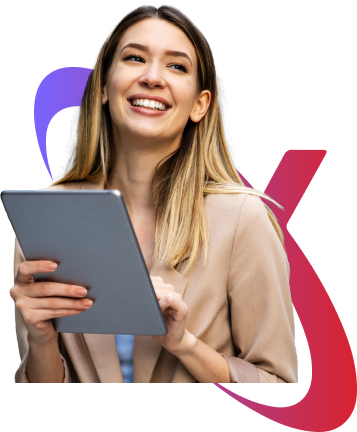
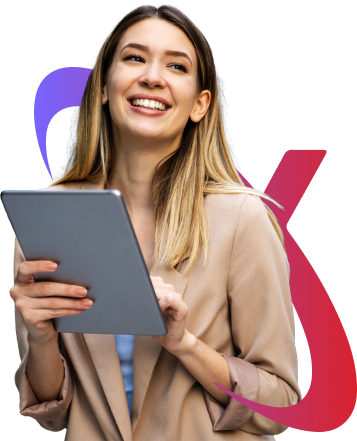
feedback section updated

diff --git a/index.html b/index.html
@@ -147,9 +147,13 @@
     <div class="container">
         <div class="people-feedback-list">
             <div class="sucess">
+                <div class="dsc">
                 <h2>People Love Us!</h2>
                 <p>See what our clients have to say about our exceptional IT services.</p>
+                </div>
+                <div class="sucess-img">
                 <img src="image/empower.png">
+            </div>
             </div>
             <div class="feedback-list">
                 <div class="feed">
@@ -224,21 +228,21 @@
             <div class="info-collection">
                     <form action="#">
                         <div class="form">
-                        <div class="name">
+                        <div class="mini-box">
                         <label for="name">Name*</label>
-                        <input type="text" class="name" name="name" placeholder="Your name">
+                        <input type="text" class="name" name="name" placeholder="Your name" required>
                         </div>
 
-                        <div class="email">
+                        <div class="mini-box">
                         <label for="email">Email*</label>
-                        <input type="text" class="email" name="email" placeholder="Your email">
+                        <input type="email" class="email" name="email" placeholder="Your email" required>
                         </div>
-                        <div class="num">
+                        <div class="mini-box">
                         <label for="num">Phone Number</label>
                         <input type="text" class="num" name="num" placeholder="Optional">
                     </div>
-                    <div class="selection">
-                        <label for="project">Let's meet for project consultaion for</label>
+                    <div class="mini-box">
+                        <label for="project">Let's meet for project consultation for</label>
                         <select class="project" name="project" placeholder="Select One">
                         <option value="a">A</option>
                         <option value="b">B</option>

diff --git a/css/style.css b/css/style.css
@@ -693,18 +693,26 @@ img{
 .people-feedback .people-feedback-list .feedback-list{
   width: 50%;
 }
-.people-feedback-list .sucess h2{
+.people-feedback-list .sucess{
+  display: flex;
+  flex-direction: column;
+  justify-content: space-between;
+}
+.people-feedback-list .sucess .dsc h2{
   font-size: 64px;
   font-weight: 500;
   margin-bottom: 0;
 }
-.people-feedback-list .sucess p{
+.people-feedback-list .sucess .dsc p{
   font-size: 18px;
   font-weight: 400;
   color: #737171;
+  
 }
 .people-feedback-list .sucess img{
   padding-top: 56px;
+  object-fit: contain;
+  display: block;
 }
 .feedback-list .feed{
   box-shadow: 0px 6px 20px rgba(0,0,0,0.10);
@@ -740,6 +748,9 @@ img{
   font-size: 18px;
   font-weight: 400;
   color: #737171;
+  line-height: 1.2;
+  margin-bottom: 0;
+  padding-bottom: 0;
 }
 
 
@@ -817,6 +828,28 @@ input[type=text], select {
   /* max-width: 335px; */
 
 }
+input[type=email], select {
+  width: 100%;
+  padding: 12px 20px;
+  margin: 8px 0;
+  display: inline-block;
+  border: 1px solid #B6B3B3;
+  border-radius: 4px;
+  box-sizing: border-box;
+  /* max-width: 335px; */
+
+}
+input[type=num], select {
+  width: 100%;
+  padding: 12px 20px;
+  margin: 8px 0;
+  display: inline-block;
+  border: 1px solid #B6B3B3;
+  border-radius: 4px;
+  box-sizing: border-box;
+  /* max-width: 335px; */
+
+}
 
 input[type=submit] {
   color: #fff;
@@ -828,7 +861,6 @@ input[type=submit] {
   padding: 24px 63px;
   border: none;
 }
-
 /* input[type=submit]:hover {
   background-color: #45a049;
 } */
